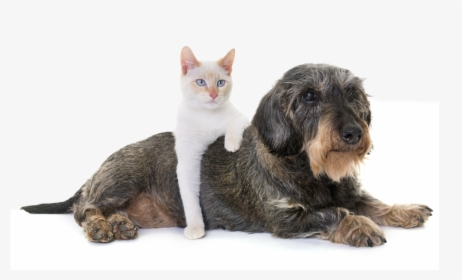
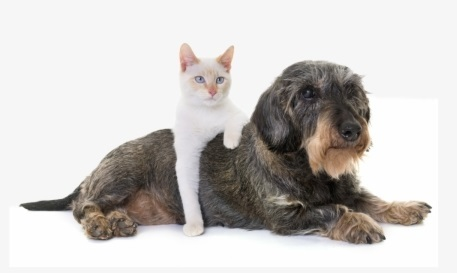
Updated media query to include tablets. Added readme content. Edited image margins

diff --git a/assets/css/style.css b/assets/css/style.css
@@ -177,7 +177,7 @@ a {
 }
 
 /* Smartphone Adaptations */
-@media screen and (max-width: 768px) {
+@media screen and (max-width: 992px) {
     /* Navigation bar moves under developer name */
     #header-nav-bar {
         display: flex;

diff --git a/README.md b/README.md
@@ -1,2 +1,54 @@
 # 2-6-21-Homework
-02 Advanced CSS: Portfolio
+# 02 Advanced CSS: Portfolio
+
+This is a portfolio page to display my (Elise Daly's) deployed web applications. I currently have none, so all of the content here is currently filler.
+
+You can view the new page [here](https://elisesamanthadaly.github.io/2-6-21-Homework/).
+
+
+## Usage
+
+Click one of the four links at the top right of the page to be brought down to the appropriate section.
+
+Click the image cards in the "Work" section to be brought to that application's page (currently, these are placeholder links.)
+
+Link the link in the "Resume" section to download Elise's resume (currently just a .pdf of an image of a panda).
+
+![alt text](assets/images/screenshot.png)
+
+## Credits
+
+Where would any of us be without [w3schools](https://www.w3schools.com/)...
+
+Also, thank you to [Nicolas Gallagher](https://github.com/necolas) and others who have contributed to [normalize.css](https://github.com/necolas/normalize.css/blob/master/normalize.css).
+
+Image Credits:
+&emsp;[main-work-image](https://ivcjournal.com/feline-diabetes-mellitus/)
+&emsp;[work-card-1-image](https://icatcare.org/advice/thinking-of-getting-a-cat/)
+&emsp;[work-card-2-image](https://www.pngitem.com/so/old-dog/)
+&emsp;[work-card-3-image](https://www.luinonotizie.it/2014/07/23/cina-allarme-peste-bubbonica-unintera-citta-in-quarantena/25519)
+&emsp;[work-card-4-image](https://www.bbc.com/news/uk-northern-ireland-50502282)
+
+## License
+
+MIT License
+
+Copyright (c) 2021 Elise Daly
+
+Permission is hereby granted, free of charge, to any person obtaining a copy
+of this software and associated documentation files (the "Software"), to deal
+in the Software without restriction, including without limitation the rights
+to use, copy, modify, merge, publish, distribute, sublicense, and/or sell
+copies of the Software, and to permit persons to whom the Software is
+furnished to do so, subject to the following conditions:
+
+The above copyright notice and this permission notice shall be included in all
+copies or substantial portions of the Software.
+
+THE SOFTWARE IS PROVIDED "AS IS", WITHOUT WARRANTY OF ANY KIND, EXPRESS OR
+IMPLIED, INCLUDING BUT NOT LIMITED TO THE WARRANTIES OF MERCHANTABILITY,
+FITNESS FOR A PARTICULAR PURPOSE AND NONINFRINGEMENT. IN NO EVENT SHALL THE
+AUTHORS OR COPYRIGHT HOLDERS BE LIABLE FOR ANY CLAIM, DAMAGES OR OTHER
+LIABILITY, WHETHER IN AN ACTION OF CONTRACT, TORT OR OTHERWISE, ARISING FROM,
+OUT OF OR IN CONNECTION WITH THE SOFTWARE OR THE USE OR OTHER DEALINGS IN THE
+SOFTWARE.
